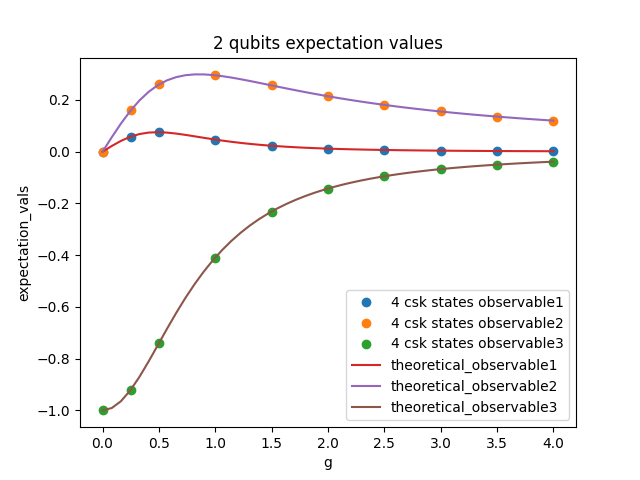
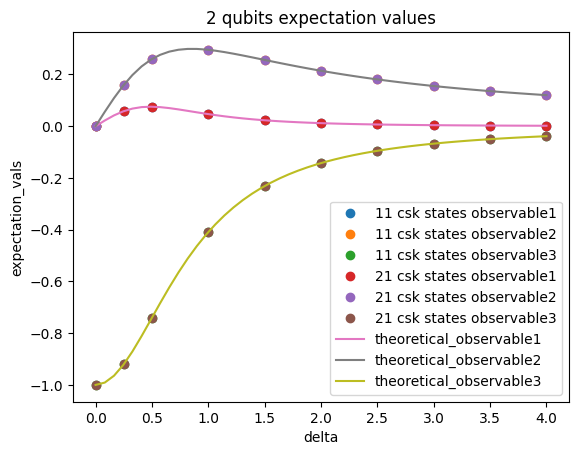
Jon

diff --git a/reproduce_fujiBoiGraphs.py b/reproduce_fujiBoiGraphs.py
@@ -8,6 +8,7 @@ import post_processing as pp
 import scipy as scp
 import scipy.io
 import qutip 
+import plotting_package as plotp
 
 optimizer = 'feasibility_sdp'#'eigh' , 'eig', 'sdp','feasibility_sdp'
 eigh_inv_cond = 10**(-6)
@@ -120,20 +121,6 @@ def big_ass_loop(g, observable_obj_list):
     gammas, L_terms = generate_fuji_boy_gamma_and_Lterms(num_qubits)
     ansatz = acp.initial_ansatz(num_qubits)
 
-    #function to evaluate the rho_dot in the linblad master eqn
-    def evaluate_rho_dot(rho, hamiltonian_class_object, gammas, L_terms):
-        hamiltonian_mat = hamiltonian_class_object.to_matrixform()
-        coherent_evo = -1j * (hamiltonian_mat @ rho - rho @ hamiltonian_mat)
-        quantum_jumps_total = 0 + 0*1j
-        for i in range(len(gammas)):
-            gamma_i = gammas[i]
-            L_i_mat = L_terms[i].to_matrixform()
-            L_i_dag_L_i = L_i_mat.conj().T @ L_i_mat
-            anti_commutator = L_i_dag_L_i @ rho + rho @ L_i_dag_L_i
-            jump_term = L_i_mat @ rho @ L_i_mat.conj().T
-            quantum_jumps_total += gamma_i * (jump_term - 0.5*anti_commutator)
-        return coherent_evo + quantum_jumps_total
-
     #%%
     #get the steady state using qutip(lol)
     qtp_hamiltonian = qutip.Qobj(hamiltonian.to_matrixform())
@@ -217,53 +204,9 @@ def big_ass_loop(g, observable_obj_list):
         IQAE_instance.evaluate()
         # IQAE_instance.evaluate(kh_test=False)
         #all_energies,all_states = IQAE_instance.get_results_all()
-        density_mat,groundstateenergy = IQAE_instance.get_density_matrix_results()
-        if type(density_mat) == type(None):
-            print('SDP failed for this run, probably due to not high enough K')
-        else:
-            IQAE_instance.check_if_valid_density_matrix()
-            #print(all_energies)
-            #print(all_states)
-            print("the trace of the beta matrix is", np.trace(density_mat @ E_mat_evaluated))
-            print('The ground state energy is\n',groundstateenergy)
-            #print('The density matrix is\n',density_mat)
-            if IQAE_instance.check_if_hermitian() == True:
-                denmat_values,denmat_vects = scp.linalg.eigh(density_mat)
-            else:
-                denmat_values,denmat_vects = scp.linalg.eig(density_mat)
-            denmat_values = np.real(np.round(denmat_values,6))
-            #print(np.imag(denmat_values))
-            print("the sorted density matrix (beta matrix) eigenvalues are\n",np.sort(denmat_values))
-
-            p_string_matrices = [i.get_paulistring().get_matrixform() for i in ansatz.get_moments()]
-            ini_statevec_vecform = initial_state.get_statevector()
-            csk_states = [i@ini_statevec_vecform for i in p_string_matrices]
-            rho = np.zeros(shape=(2**num_qubits,2**num_qubits), dtype = np.complex128)
-            trace = 0
-            for i in range(len(density_mat)):
-                for j in range(len(density_mat)):
-                    i_j_entry = density_mat[(i,j)]
-                    i_j_ketbra = np.outer(csk_states[i], csk_states[j].conj().T)
-                    rho += i_j_entry * i_j_ketbra
-                    trace += i_j_entry * csk_states[j].conj().T @ csk_states[i]
-
-            rho_eigvals,rho_eigvecs = scipy.linalg.eigh(rho)        
-            print('rho_eigvals is: ' + str(rho_eigvals))
-            print("trace rho is", np.trace(rho))
-            #now, we check if rho (the actual denmat) gives 0 for the linblad master equation
-
-            rho_dot = evaluate_rho_dot(rho, hamiltonian, gammas, L_terms) #should be 0
-            # print('rho_dot is: ' + str(rho_dot))
-            print('Max value rho_dot is: ' + str(np.max(np.max(rho_dot))))
-            qtp_rho = qutip.Qobj(rho)
-            fidelity = qutip.metrics.fidelity(qtp_rho, qtp_rho_ss)
-            print("The fidelity is", fidelity)
-            observable_expectation_results[k] = [np.trace(density_mat @ O_mat_eval) for O_mat_eval in O_matrices_evaluated]
-            fidelity_results[k] = fidelity
-            #if round(fidelity, 6) == 1:
-            #    print("breaking loop as fidelity = 1 already")
-            #    #raise(RuntimeError("Fidelity = 1!"))
-            #    break
+        result_dictionary = pp.analyze_density_matrix(num_qubits,initial_state,IQAE_instance,E_mat_evaluated,ansatz,hamiltonian,gammas,L_terms,qtp_rho_ss,O_matrices_evaluated)
+        observable_expectation_results[k] = result_dictionary['observable_expectation']
+        fidelity_results[k] = result_dictionary['fidelity']
     #print('JON: Got %s results'%len(fidelity_results))
     return (observable_expectation_results, theoretical_expectation_values, fidelity_results)
 
@@ -323,66 +266,8 @@ import matplotlib.pyplot as plt
 if random_selection_new:
     num_of_csk_states = lambda k: numberofnewstatestoadd * k + 1
 
-def plot_fidelities(results,savefile):
-    x_vals = list(results.keys())
-    y_vals_all_k = [list(i[2].values()) for i in list(results.values())]
-    y_vals_all_k_transposed = list(zip(*y_vals_all_k))
-    y_vals_all_k_transposed_dict = {k+1:y_vals_all_k_transposed[k] for k in range(len(y_vals_all_k_transposed))}
-
-    for k,fidelities in y_vals_all_k_transposed_dict.items():
-        print(k)
-        if random_selection_new:
-            plt.plot(x_vals, fidelities, label=str(num_of_csk_states(k)) + " csk states")
-        else:
-            plt.plot(x_vals, fidelities, label="k=" + str(k))
-
-    plt.xlabel("g")
-    plt.ylabel("fidelity")
-    plt.title(str(num_qubits) + " qubits fidelity graph")
-    plt.legend(bbox_to_anchor=(1.05, 1), loc='upper left')
-    plt.savefig(savefile,bbox_inches="tight")
-    plt.close()
-    #plt.show()
-
-
-def plot_expectation_values(results, theoretical_curves, which_ks,savefile):
-    x_vals = list(results.keys())
-    observable_expectation_results = [list(i[0].items()) for i in list(results.values())]
-    observable_expectation_results_transposed = list(zip(*observable_expectation_results))
-    # don't need to know the details of what the heck this chunk does, but this
-    # chunk is such that the key is the k value, and for each k, we have
-    # [(observable one results against g), (observable 2 results against g),
-    # (observable 3 results against g)]
-    observable_expectation_results_transposed_dict = {k+1:list(zip(*[j[1] for j in observable_expectation_results_transposed[k]])) for k in range(len(observable_expectation_results_transposed))}
-
-    # which_observables = [0,1,2]
-    for k,observable_results in observable_expectation_results_transposed_dict.items():
-        if k not in which_ks:
-            continue
-        for index in range(len(observable_results)):
-            # if index not in which_observables:
-            #     continue
-            observable_result = observable_results[index]
-            if random_selection_new:
-                plt.plot(x_vals, observable_result, "o", label = str(num_of_csk_states(k)) + " csk states" + " observable" + str(index + 1))
-            else:
-                plt.plot(x_vals, observable_result, "o", label = "k=" + str(k) + " observable" + str(index + 1))
-    plt.plot(theoretical_curves[0], theoretical_curves[1][0], label = "theoretical_observable1")
-    plt.plot(theoretical_curves[0], theoretical_curves[1][1],
-    label = "theoretical_observable2")
-    plt.plot(theoretical_curves[0], theoretical_curves[1][2],
-    label = "theoretical_observable3")
-
-    plt.xlabel("g")
-    plt.ylabel("expectation_vals")
-    plt.title(str(num_qubits) + " qubits expectation values")
-    plt.legend(bbox_to_anchor=(1.05, 1), loc='upper left')
-    plt.savefig(savefile,bbox_inches="tight")
-    plt.close()
-    #plt.show()
-    
-plot_fidelities(results,'graphsforpaper/%s_qubit_fidelity.png'%num_qubits)
-plot_expectation_values(results, theoretical_curves, [1,2],'graphsforpaper/%s_qubit.png'%num_qubits)
-# plot_expectation_values(results, theoretical_curves, [2])
-# plot_expectation_values(results, theoretical_curves, [3])
+plotp.plot_fidelities(num_qubits,results,random_selection_new,num_of_csk_states)
+plotp.print_plot('graphsforpaper/%s_qubit_fidelity.png'%num_qubits,bboxtight="tight")
+plotp.qutip_comparison_with_k_plot_expectation_values(num_qubits,results, theoretical_curves, [1,2],random_selection_new,num_of_csk_states)
+plotp.print_plot('graphsforpaper/%s_qubit.png'%num_qubits,bboxtight="tight")    
 # %%

diff --git a/sai_hamiltonian_graphs.py b/sai_hamiltonian_graphs.py
@@ -8,6 +8,7 @@ import post_processing as pp
 import scipy as scp
 import scipy.io
 import qutip 
+import plotting_package as plotp
 
 optimizer = 'feasibility_sdp'#'eigh' , 'eig', 'sdp','feasibility_sdp'
 eigh_inv_cond = 10**(-6)
@@ -124,7 +125,7 @@ def big_ass_loop(delta,Gamma,mu, observable_obj_list):
     qtp_hamiltonian = qutip.Qobj(hamiltonian.to_matrixform())
     qtp_Lterms = [qutip.Qobj(i.to_matrixform()) for i in L_terms]
     qtp_C_ops = [np.sqrt(gammas[i]) * qtp_Lterms[i] for i in range(len(qtp_Lterms))]
-    qtp_rho_ss = qutip.steadystate(qtp_hamiltonian, qtp_C_ops,method="svd")
+    qtp_rho_ss = qutip.steadystate(qtp_hamiltonian, qtp_C_ops,method='iterative-gmres')
 
     #compute the theoretical observable expectation values
     observable_matrixforms = [observable.to_matrixform() for observable in observable_obj_list]
@@ -198,7 +199,6 @@ def big_ass_loop(delta,Gamma,mu, observable_obj_list):
         # IQAE_instance.evaluate(kh_test=False)
         #all_energies,all_states = IQAE_instance.get_results_all()
         result_dictionary = pp.analyze_density_matrix(num_qubits,initial_state,IQAE_instance,E_mat_evaluated,ansatz,hamiltonian,gammas,L_terms,qtp_rho_ss,O_matrices_evaluated)
-        density_mat,groundstateenergy = IQAE_instance.get_density_matrix_results()
         observable_expectation_results[k] = result_dictionary['observable_expectation']
         fidelity_results[k] = result_dictionary['fidelity']
             #if round(fidelity, 6) == 1:
@@ -264,66 +264,9 @@ import matplotlib.pyplot as plt
 if random_selection_new:
     num_of_csk_states = lambda k: numberofnewstatestoadd * k + 1
 
-def plot_fidelities(results,savefile):
-    x_vals = list(results.keys())
-    y_vals_all_k = [list(i[2].values()) for i in list(results.values())]
-    y_vals_all_k_transposed = list(zip(*y_vals_all_k))
-    y_vals_all_k_transposed_dict = {k+1:y_vals_all_k_transposed[k] for k in range(len(y_vals_all_k_transposed))}
+plotp.plot_fidelities(num_qubits,results,random_selection_new,num_of_csk_states)
+plotp.print_plot('graphsforpaper/XXZ_%s_qubit_fidelity.png'%num_qubits,bboxtight="tight")
+plotp.qutip_comparison_with_k_plot_expectation_values(num_qubits,results, theoretical_curves, [3,4],random_selection_new,num_of_csk_states)
+plotp.print_plot('graphsforpaper/XXZ_%s_qubit.png'%num_qubits,bboxtight="tight")
 
-    for k,fidelities in y_vals_all_k_transposed_dict.items():
-        print(k)
-        if random_selection_new:
-            plt.plot(x_vals, fidelities, label=str(num_of_csk_states(k)) + " csk states")
-        else:
-            plt.plot(x_vals, fidelities, label="k=" + str(k))
-
-    plt.xlabel("delta")
-    plt.ylabel("fidelity")
-    plt.title(str(num_qubits) + " qubits fidelity graph")
-    plt.legend(bbox_to_anchor=(1.05, 1), loc='upper left')
-    plt.savefig(savefile,bbox_inches="tight")
-    plt.close()
-    #plt.show()
-
-
-def plot_expectation_values(results, theoretical_curves, which_ks,savefile):
-    x_vals = list(results.keys())
-    observable_expectation_results = [list(i[0].items()) for i in list(results.values())]
-    observable_expectation_results_transposed = list(zip(*observable_expectation_results))
-    # don't need to know the details of what the heck this chunk does, but this
-    # chunk is such that the key is the k value, and for each k, we have
-    # [(observable one results against g), (observable 2 results against g),
-    # (observable 3 results against g)]
-    observable_expectation_results_transposed_dict = {k+1:list(zip(*[j[1] for j in observable_expectation_results_transposed[k]])) for k in range(len(observable_expectation_results_transposed))}
-
-    # which_observables = [0,1,2]
-    for k,observable_results in observable_expectation_results_transposed_dict.items():
-        if k not in which_ks:
-            continue
-        for index in range(len(observable_results)):
-            # if index not in which_observables:
-            #     continue
-            observable_result = observable_results[index]
-            if random_selection_new:
-                plt.plot(x_vals, observable_result, "o", label = str(num_of_csk_states(k)) + " csk states" + " observable" + str(index + 1))
-            else:
-                plt.plot(x_vals, observable_result, "o", label = "k=" + str(k) + " observable" + str(index + 1))
-    plt.plot(theoretical_curves[0], theoretical_curves[1][0], label = "theoretical_observable1")
-    plt.plot(theoretical_curves[0], theoretical_curves[1][1],
-    label = "theoretical_observable2")
-    plt.plot(theoretical_curves[0], theoretical_curves[1][2],
-    label = "theoretical_observable3")
-
-    plt.xlabel("delta")
-    plt.ylabel("expectation_vals")
-    plt.title(str(num_qubits) + " qubits expectation values")
-    plt.legend(bbox_to_anchor=(1.05, 1), loc='upper left')
-    plt.savefig(savefile,bbox_inches="tight")
-    plt.close()
-    #plt.show()
-    
-plot_fidelities(results,'graphsforpaper/XXZ_%s_qubit_fidelity.png'%num_qubits)
-plot_expectation_values(results, theoretical_curves, [3,4],'graphsforpaper/XXZ_%s_qubit.png'%num_qubits)
-# plot_expectation_values(results, theoretical_curves, [2])
-# plot_expectation_values(results, theoretical_curves, [3])
 # %%

diff --git a/plotting_package.py b/plotting_package.py
@@ -123,9 +123,12 @@ def show_plot():
     plt.legend()
     plt.show()
 
-def print_plot(location):
+def print_plot(location,bboxtight=False):
     plt.legend()
-    plt.savefig(location)
+    if bboxtight == "tight":
+        plt.savefig(location,bbox_inches="tight")
+    else:
+        plt.savefig(location)
     plt.close()
 
 def QS_plotter_for_fidelity(num_qubits, ansatzlist, times,
@@ -266,3 +269,59 @@ def get_fidelity_results(num_qubits, ansatzlist, times,
                 fidelity_vals[time] = fidelity
             collated_fidelity_vals[i] = fidelity_vals
     return collated_fidelity_vals
+
+def qutip_comparison_with_k_plot_expectation_values(num_qubits,results, theoretical_curves, which_ks,random_selection_new,num_of_csk_states):
+    x_vals = list(results.keys())
+    observable_expectation_results = [list(i[0].items()) for i in list(results.values())]
+    observable_expectation_results_transposed = list(zip(*observable_expectation_results))
+    # don't need to know the details of what the heck this chunk does, but this
+    # chunk is such that the key is the k value, and for each k, we have
+    # [(observable one results against g), (observable 2 results against g),
+    # (observable 3 results against g)]
+    observable_expectation_results_transposed_dict = {k+1:list(zip(*[j[1] for j in observable_expectation_results_transposed[k]])) for k in range(len(observable_expectation_results_transposed))}
+
+    # which_observables = [0,1,2]
+    for k,observable_results in observable_expectation_results_transposed_dict.items():
+        if k not in which_ks:
+            continue
+        for index in range(len(observable_results)):
+            # if index not in which_observables:
+            #     continue
+            observable_result = observable_results[index]
+            if random_selection_new:
+                plt.plot(x_vals, observable_result, "o", label = str(num_of_csk_states(k)) + " csk states" + " observable" + str(index + 1))
+            else:
+                plt.plot(x_vals, observable_result, "o", label = "k=" + str(k) + " observable" + str(index + 1))
+    plt.plot(theoretical_curves[0], theoretical_curves[1][0], label = "theoretical_observable1")
+    plt.plot(theoretical_curves[0], theoretical_curves[1][1],
+    label = "theoretical_observable2")
+    plt.plot(theoretical_curves[0], theoretical_curves[1][2],
+    label = "theoretical_observable3")
+
+    plt.xlabel("delta")
+    plt.ylabel("expectation_vals")
+    plt.title(str(num_qubits) + " qubits expectation values")
+    plt.legend(bbox_to_anchor=(1.05, 1), loc='upper left')
+    #plt.savefig(savefile,bbox_inches="tight")
+    #plt.close()
+    #plt.show()
+def plot_fidelities(num_qubits,results,random_selection_new,num_of_csk_states):
+    x_vals = list(results.keys())
+    y_vals_all_k = [list(i[2].values()) for i in list(results.values())]
+    y_vals_all_k_transposed = list(zip(*y_vals_all_k))
+    y_vals_all_k_transposed_dict = {k+1:y_vals_all_k_transposed[k] for k in range(len(y_vals_all_k_transposed))}
+
+    for k,fidelities in y_vals_all_k_transposed_dict.items():
+        print(k)
+        if random_selection_new:
+            plt.plot(x_vals, fidelities, label=str(num_of_csk_states(k)) + " csk states")
+        else:
+            plt.plot(x_vals, fidelities, label="k=" + str(k))
+
+    plt.xlabel("delta")
+    plt.ylabel("fidelity")
+    plt.title(str(num_qubits) + " qubits fidelity graph")
+    plt.legend(bbox_to_anchor=(1.05, 1), loc='upper left')
+    #plt.savefig(savefile,bbox_inches="tight")
+    #plt.close()
+    #plt.show()
